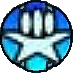
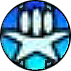
High alert token

diff --git a/src/components/tags/ParticipantTagEditor.tsx b/src/components/tags/ParticipantTagEditor.tsx
@@ -1,23 +1,34 @@
-import { ChevronLeft, ChevronRight, Stars } from "@mui/icons-material";
+import { ChevronLeft, ChevronRight } from "@mui/icons-material";
 import { Divider, Drawer as MuiDrawer, List, ListItem, ListItemIcon, ListItemText, styled, Theme, Typography } from "@mui/material";
 import { OverlayScrollbarsComponent } from "overlayscrollbars-react";
 import React, { useState } from "react";
 import { useDispatch, useSelector } from "react-redux";
 
-import { FactionImage, TechnologyTypeImage } from "components/graphics";
+import { FactionImage } from "components/graphics";
 import {
     availableFactionUpgrades,
     defaultFactionAbilities,
     factionResources,
     getDefaultFactionAbilityValue,
-    participantTagResources,
     technologyResources,
 } from "logic/participant";
 import { ParticipantInput, ParticipantRole } from "model/calculation";
-import { Faction, FactionAbility, FactionResources, FactionUpgrade, ParticipantTag, technologies, Technology } from "model/combatTags";
+import {
+    CommonParticipantTag,
+    Faction,
+    FactionAbility,
+    FactionResources,
+    FactionUpgrade,
+    ParticipantTag,
+    technologies,
+    Technology,
+} from "model/combatTags";
 import { selectParticipant, setFaction, setParticipantTag, unsetParticipantTag } from "redux/participant/participantSlice";
+import { CommonParticipantTagIcon } from "./CommonParticipantTagIcon";
 import { ParticipantTagListItem } from "./ParticipantTagListItem";
 import { SelectFactionDialog } from "./SelectFactionDialog";
+import { TagStarIcon } from "./TagStarIcon";
+import { TechnologyIcon } from "./TechnologyIcon";
 
 interface Props {
     location: "left" | "right";
@@ -124,6 +135,21 @@ function DrawerContent({ role, open }: DrawerContentProps) {
                         onToggle={toggleParticipantTag(tag)}
                     />
                 ))}
+                <ListItem sx={{ visibility: open ? "visible" : "hidden" }}>
+                    <ListItemText>Other</ListItemText>
+                </ListItem>
+                <ParticipantTagListItem
+                    tag={CommonParticipantTag.HIGH_ALERT_TOKEN}
+                    icon={
+                        <CommonParticipantTagIcon
+                            tag={CommonParticipantTag.HIGH_ALERT_TOKEN}
+                            selected={participant.tags[CommonParticipantTag.HIGH_ALERT_TOKEN] !== undefined}
+                        />
+                    }
+                    selected={participant.tags[CommonParticipantTag.HIGH_ALERT_TOKEN] !== undefined}
+                    open={open}
+                    onToggle={toggleParticipantTag(CommonParticipantTag.HIGH_ALERT_TOKEN)}
+                />
             </List>
             <SelectFactionDialog
                 open={factionDialogOpen}
@@ -132,44 +158,6 @@ function DrawerContent({ role, open }: DrawerContentProps) {
                 onSelect={handleSelectFaction}
             />
         </>
-    );
-}
-
-function TagStarIcon({ tag, selected }: { tag: ParticipantTag; selected: boolean }) {
-    return (
-        <Stars
-            sx={{
-                fontSize: 32,
-                color: participantTagResources[tag].color,
-                marginLeft: "auto",
-                marginRight: "auto",
-                filter: selected ? undefined : "grayscale(0.8)",
-                opacity: selected ? undefined : "0.7",
-                borderRadius: "50%",
-                borderStyle: "solid",
-                borderWidth: "2px",
-                borderColor: selected ? "#DDDDDD" : "transparent",
-            }}
-        />
-    );
-}
-
-function TechnologyIcon({ tag, selected }: { tag: Technology; selected: boolean }) {
-    return (
-        <TechnologyTypeImage
-            technologyType={technologyResources[tag].type}
-            style={{
-                width: 30,
-                marginLeft: "auto",
-                marginRight: "auto",
-                filter: selected ? undefined : "grayscale(0.8)",
-                opacity: selected ? undefined : "0.7",
-                borderRadius: "50%",
-                borderStyle: "solid",
-                borderWidth: "2px",
-                borderColor: selected ? "#DDDDDD" : "transparent",
-            }}
-        />
     );
 }
 

diff --git a/src/logic/participant.ts b/src/logic/participant.ts
@@ -12,6 +12,7 @@ import {
 } from "model/calculation";
 import { CombatState, ComputedUnitSnapshot } from "model/combatState";
 import {
+    CommonParticipantTag,
     Faction,
     FactionAbility,
     FactionResources,
@@ -267,8 +268,7 @@ export const technologyResources: KeyedDictionary<Technology, TechnologyResource
         implementation: effects.maneuveringJets,
     },
 };
-
-export const participantTagResources: KeyedDictionary<ParticipantTag, ParticipantTagResources> = {
+const factionAbilityResources: KeyedDictionary<FactionAbility, ParticipantTagResources> = {
     [FactionAbility.MENTAK_PRECOMBAT_SHOTS]: {
         name: "Pre-combat shots",
         color: factionResources[Faction.MENTAK_COALITION].color,
@@ -324,6 +324,9 @@ export const participantTagResources: KeyedDictionary<ParticipantTag, Participan
         color: factionResources[Faction.ARBOREC_ECOSYSTEM].color,
         implementation: false,
     },
+};
+
+const factionUpgradeResources: KeyedDictionary<FactionUpgrade, ParticipantTagResources> = {
     [FactionUpgrade.LETNEV_SAIMOC_INFUSED_HULLS]: {
         name: "Saimoc-infused hulls",
         color: factionResources[Faction.BARONY_OF_LETNEV].color,
@@ -394,7 +397,31 @@ export const participantTagResources: KeyedDictionary<ParticipantTag, Participan
         color: factionResources[Faction.ORDER_OF_THE_LAST].color,
         implementation: false,
     },
+};
+
+const commonParticipantTagResources: KeyedDictionary<CommonParticipantTag, ParticipantTagResources> = {
+    [CommonParticipantTag.HIGH_ALERT_TOKEN]: {
+        name: "High alert token",
+        color: "white",
+        implementation: effects.highAlertToken,
+    },
+    [CommonParticipantTag.GENERAL]: {
+        name: "General",
+        color: "white",
+        implementation: false,
+    },
+    [CommonParticipantTag.AGENT]: {
+        name: "Agent",
+        color: "white",
+        implementation: false,
+    },
+};
+
+export const participantTagResources: KeyedDictionary<ParticipantTag, ParticipantTagResources> = {
+    ...factionAbilityResources,
+    ...factionUpgradeResources,
     ...technologyResources,
+    ...commonParticipantTagResources,
     // Flagship here is just a placeholder, to be replaced by faction-specific flagship implementations.
     [FlagshipTag.FLAGSHIP]: {
         name: "Flagship",

diff --git a/src/components/graphics/CommonParticipantTagImage.tsx b/src/components/graphics/CommonParticipantTagImage.tsx
@@ -1,0 +1,31 @@
+import React from "react";
+
+import { CommonParticipantTag } from "model/combatTags";
+
+interface Props {
+    tag: CommonParticipantTag;
+    style?: React.CSSProperties | undefined;
+}
+
+export const CommonParticipantTagImage = React.memo(({ tag, style }: Props) => {
+    const path = getImagePath(tag);
+    return <img src={path} alt={String(tag)} style={style} />;
+});
+
+function getImagePath(tag: CommonParticipantTag): string {
+    const base = window.location.href;
+    const subfolder = "images";
+    let imageName: string;
+    switch (tag) {
+        case CommonParticipantTag.HIGH_ALERT_TOKEN:
+            imageName = "highalert.png";
+            break;
+        case CommonParticipantTag.GENERAL:
+            imageName = "general.png";
+            break;
+        case CommonParticipantTag.AGENT:
+            imageName = "agent.png";
+            break;
+    }
+    return `${base}/${subfolder}/${imageName}`;
+}

diff --git a/src/components/graphics/CombatRollImage.tsx b/src/components/graphics/CombatRollImage.tsx
@@ -1,3 +1,4 @@
+import { clamp } from "lodash";
 import React from "react";
 import { SvgLoader, SvgProxy } from "react-svgmt";
 
@@ -11,9 +12,10 @@ interface Props {
 export const CombatRollImage = React.memo(({ combatValue, style }: Props) => {
     const [loaded, setLoaded] = React.useState(false);
     const handleLoaded = () => setLoaded(true);
-    const path: string = getSvgPath(combatValue);
-    const baseColor: string = diceColors[combatValue] ?? diceColors[10];
-    const textColor: string = getTextColor(combatValue);
+    const clampedCombatValue = clamp(combatValue, 1, 10);
+    const path: string = getSvgPath(clampedCombatValue);
+    const baseColor: string = diceColors[clampedCombatValue] ?? diceColors[10];
+    const textColor: string = getTextColor(clampedCombatValue);
 
     // Let the image load before showing it, to prevent flickers while the SvgProxys are being handled
     return (

diff --git a/src/components/tags/TechnologyIcon.tsx b/src/components/tags/TechnologyIcon.tsx
@@ -1,0 +1,27 @@
+import { TechnologyTypeImage } from "components/graphics";
+import { technologyResources } from "logic/participant";
+import { Technology } from "model/combatTags";
+
+interface Props {
+    tag: Technology;
+    selected: boolean;
+}
+
+export function TechnologyIcon({ tag, selected }: Props) {
+    return (
+        <TechnologyTypeImage
+            technologyType={technologyResources[tag].type}
+            style={{
+                width: 30,
+                marginLeft: "auto",
+                marginRight: "auto",
+                filter: selected ? undefined : "grayscale(0.8)",
+                opacity: selected ? undefined : "0.7",
+                borderRadius: "50%",
+                borderStyle: "solid",
+                borderWidth: "2px",
+                borderColor: selected ? "#DDDDDD" : "transparent",
+            }}
+        />
+    );
+}

diff --git a/src/components/tags/TagStarIcon.tsx b/src/components/tags/TagStarIcon.tsx
@@ -1,0 +1,28 @@
+import { Stars } from "@mui/icons-material";
+
+import { participantTagResources } from "logic/participant";
+import { ParticipantTag } from "model/combatTags";
+
+interface Props {
+    tag: ParticipantTag;
+    selected: boolean;
+}
+
+export function TagStarIcon({ tag, selected }: Props) {
+    return (
+        <Stars
+            sx={{
+                fontSize: 32,
+                color: participantTagResources[tag].color,
+                marginLeft: "auto",
+                marginRight: "auto",
+                filter: selected ? undefined : "grayscale(0.8)",
+                opacity: selected ? undefined : "0.7",
+                borderRadius: "50%",
+                borderStyle: "solid",
+                borderWidth: "2px",
+                borderColor: selected ? "#DDDDDD" : "transparent",
+            }}
+        />
+    );
+}

diff --git a/src/components/tags/CommonParticipantTagIcon.tsx b/src/components/tags/CommonParticipantTagIcon.tsx
@@ -1,0 +1,26 @@
+import { CommonParticipantTagImage } from "components/graphics";
+import { CommonParticipantTag } from "model/combatTags";
+
+interface Props {
+    tag: CommonParticipantTag;
+    selected: boolean;
+}
+
+export function CommonParticipantTagIcon({ tag, selected }: Props) {
+    return (
+        <CommonParticipantTagImage
+            tag={tag}
+            style={{
+                width: 30,
+                marginLeft: "auto",
+                marginRight: "auto",
+                filter: selected ? undefined : "grayscale(0.8)",
+                opacity: selected ? undefined : "0.7",
+                borderRadius: "50%",
+                borderStyle: "solid",
+                borderWidth: "2px",
+                borderColor: selected ? "#DDDDDD" : "transparent",
+            }}
+        />
+    );
+}

diff --git a/src/model/combatTags.ts b/src/model/combatTags.ts
@@ -76,13 +76,19 @@ export enum Technology {
     MANEUVERING_JETS = 414,
 }
 
+export enum CommonParticipantTag {
+    HIGH_ALERT_TOKEN = 501,
+    GENERAL = 502,
+    AGENT = 503,
+}
+
 export enum FlagshipTag {
-    FLAGSHIP = 501,
+    FLAGSHIP = 601,
 }
 
 export const technologies: Technology[] = getAllEnumValues<Technology>(Technology);
 
-export type ParticipantTag = FactionAbility | FactionUpgrade | Technology | FlagshipTag;
+export type ParticipantTag = FactionAbility | FactionUpgrade | Technology | CommonParticipantTag | FlagshipTag;
 
 export interface JolnarRerollStrategy {
     maxRerolls: number;

diff --git a/src/components/graphics/index.ts b/src/components/graphics/index.ts
@@ -1,6 +1,10 @@
 export * from "./AdmiralImage";
+export * from "./AgentImage";
 export * from "./CombatRollImage";
+export * from "./CommonParticipantTagImage";
 export * from "./FactionImage";
+export * from "./GeneralImage";
+export * from "./HighAlertTokenImage";
 export * from "./HitCounterImage";
 export * from "./icons";
 export * from "./TechnologyTypeImage";

diff --git a/src/logic/effects/highAlertToken.ts b/src/logic/effects/highAlertToken.ts
@@ -1,0 +1,9 @@
+import { ParticipantOnComputeSnapshotInput, ParticipantTagImplementation } from "model/effects";
+
+export const highAlertToken: ParticipantTagImplementation = {
+    onComputeUnitSnapshots: ({ units }: ParticipantOnComputeSnapshotInput) => {
+        for (let unit of units) {
+            unit.combatValue--;
+        }
+    },
+};

diff --git a/src/components/graphics/HighAlertTokenImage.tsx b/src/components/graphics/HighAlertTokenImage.tsx
@@ -1,0 +1,11 @@
+import React from "react";
+
+interface Props {
+    style?: React.CSSProperties | undefined;
+}
+
+export const HighAlertTokenImage = React.memo(({ style }: Props) => {
+    const path = `${window.location.href}/images/highalert.png`;
+
+    return <img src={path} alt="High alert token" style={style} />;
+});

diff --git a/src/components/graphics/GeneralImage.tsx b/src/components/graphics/GeneralImage.tsx
@@ -1,0 +1,11 @@
+import React from "react";
+
+interface Props {
+    style?: React.CSSProperties | undefined;
+}
+
+export const GeneralImage = React.memo(({ style }: Props) => {
+    const path = `${window.location.href}/images/leaders/general.png`;
+
+    return <img src={path} alt="General" style={style} />;
+});
